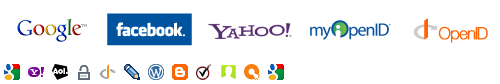
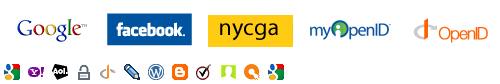
replacing yahoo w/ nycga as openid provider

Changed region(s): [[0.39, 0.1667, 0.6, 0.5714]]

diff --git a/media/js/openid/openid-jquery-en.js b/media/js/openid/openid-jquery-en.js
@@ -6,10 +6,7 @@
 */
 
 var providers_large = {
-  nycga : {
-    name: 'NYCGA',
-    url: 'https://nycga.net/'
-  },
+ 
 	google : {
 		name : 'Google',
 		url : 'https://www.google.com/accounts/o8/id'
@@ -18,10 +15,10 @@ var providers_large = {
       name: 'Facebook',
       url: "javascript:facebook_click();"
     },
-	yahoo : {
-		name : 'Yahoo',
-		url : 'http://me.yahoo.com/'
-	},
+    nycga : {
+       name: 'NYCGA',
+       url: 'https://nycga.net/'
+     },
 	/*aol : {
 		name : 'AOL',
 		label : 'Enter your AOL screenname.',
